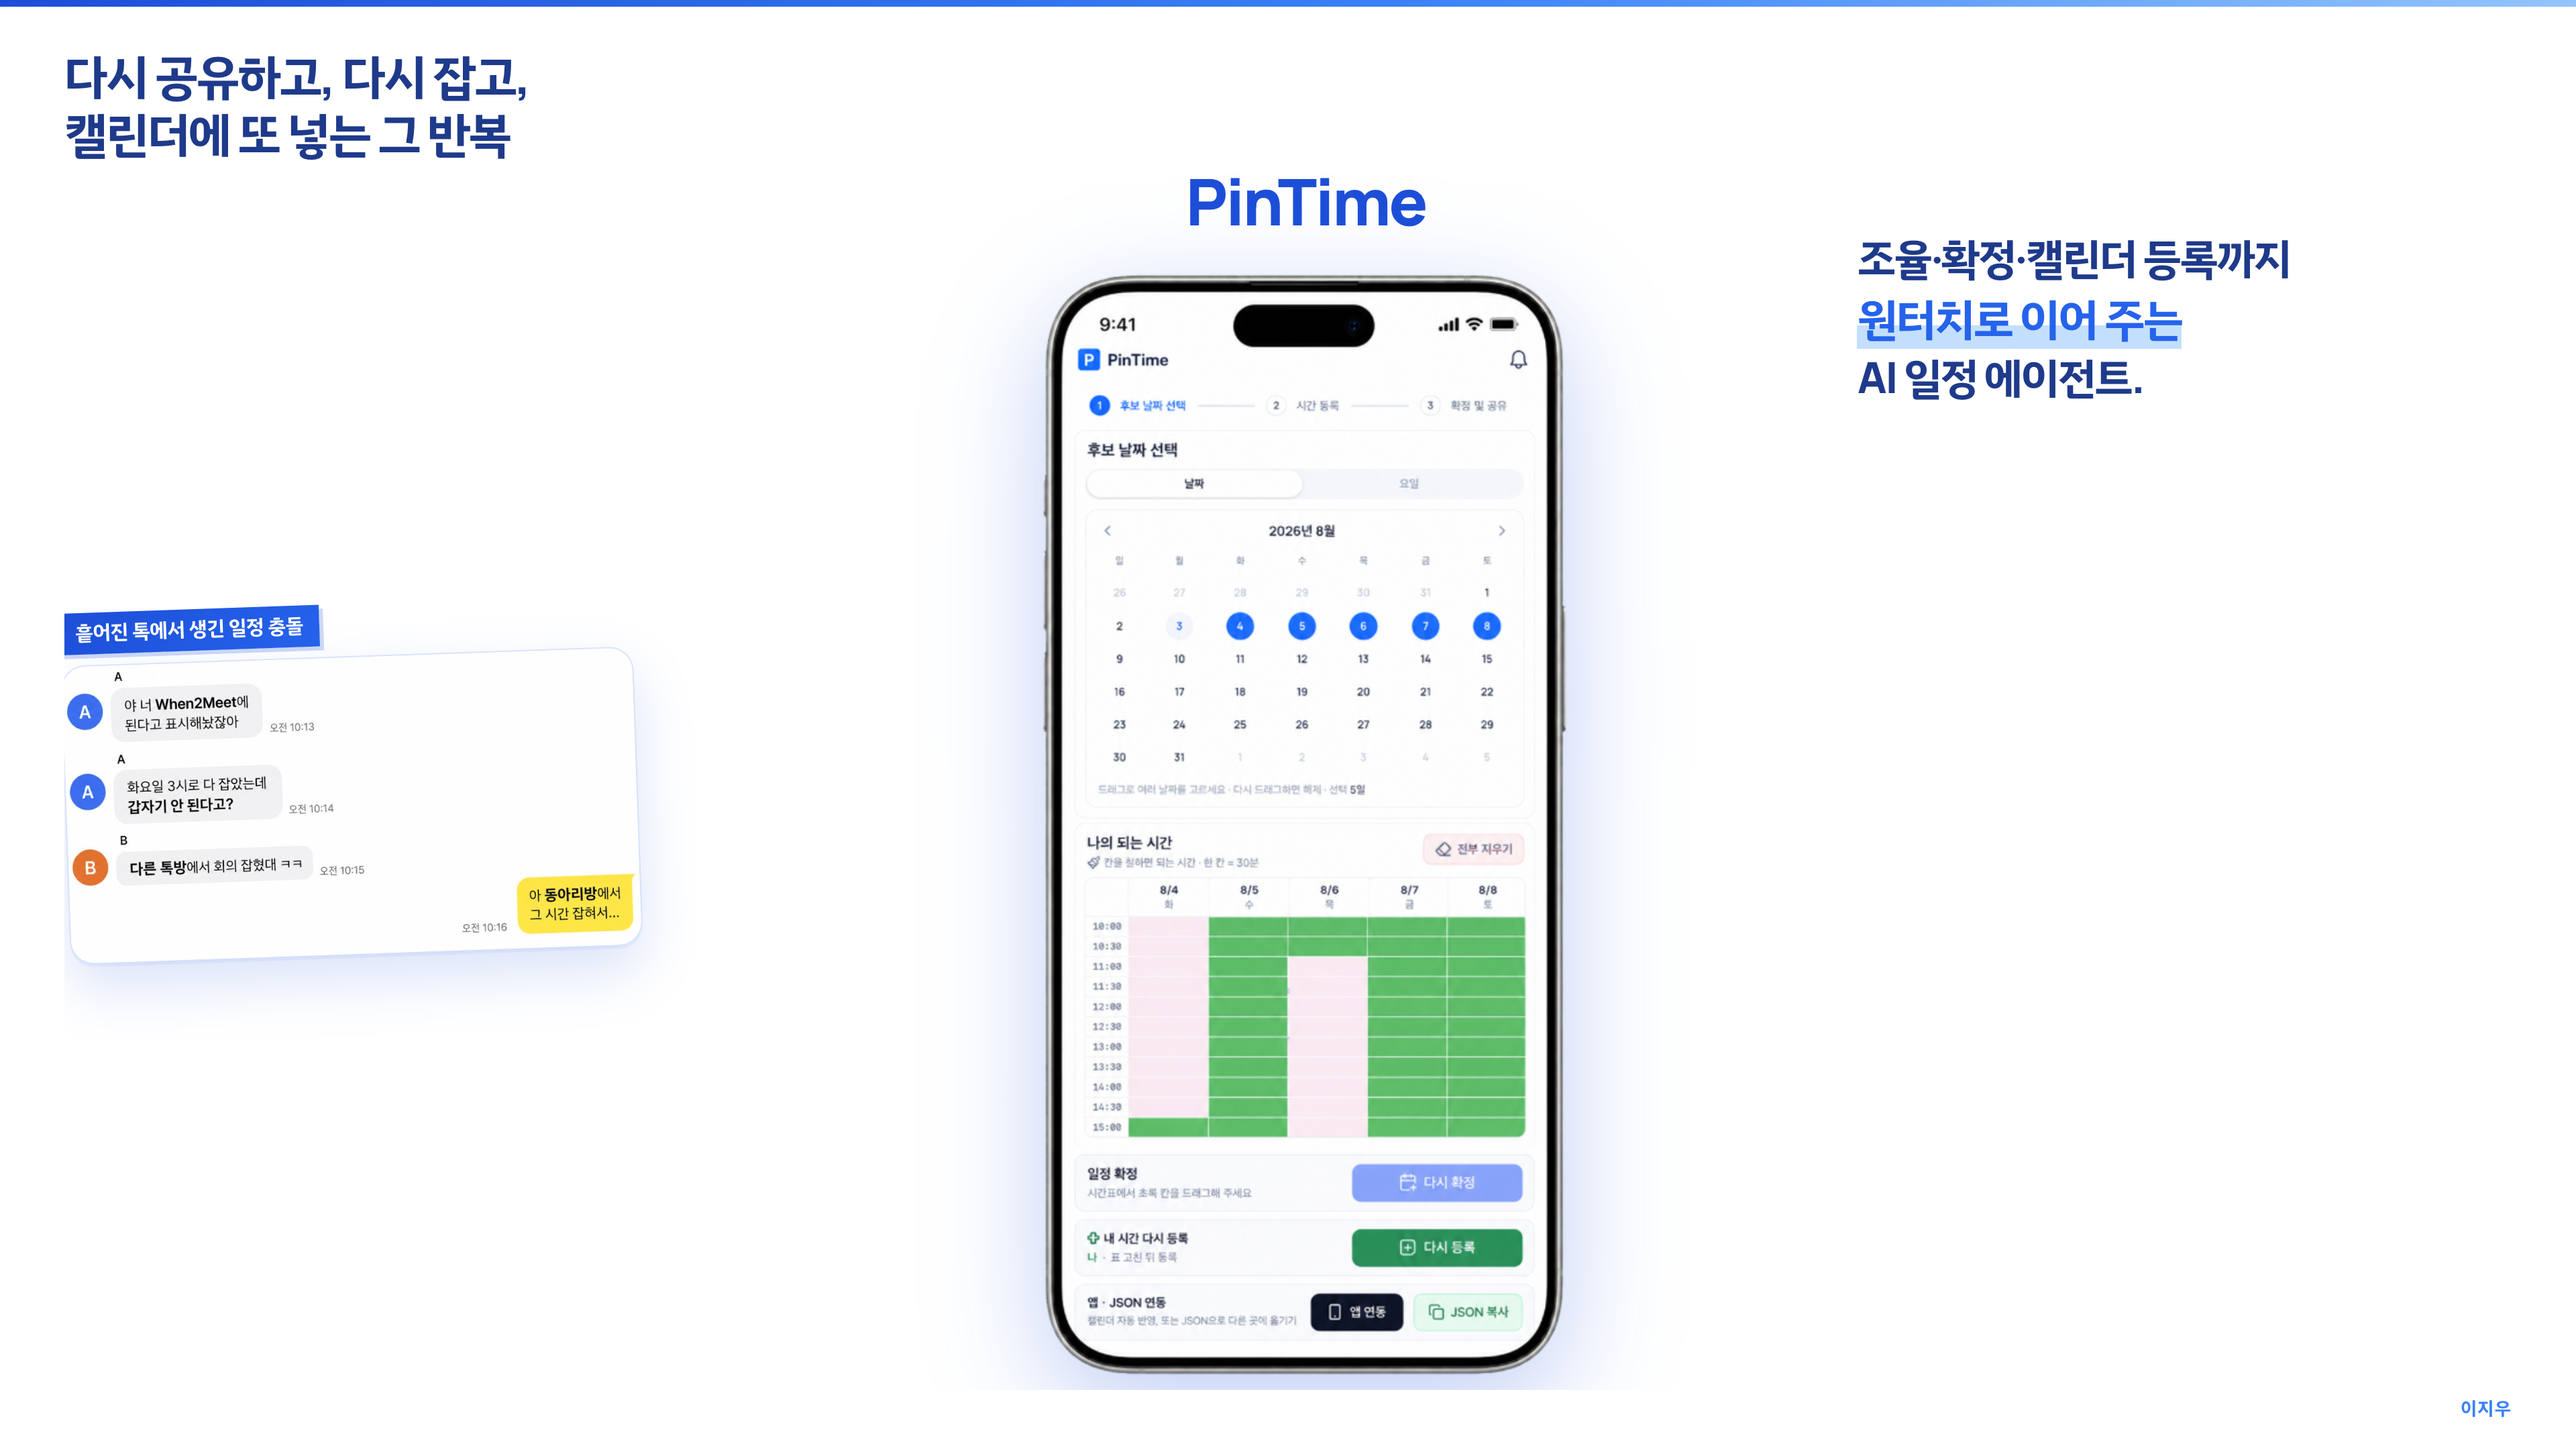
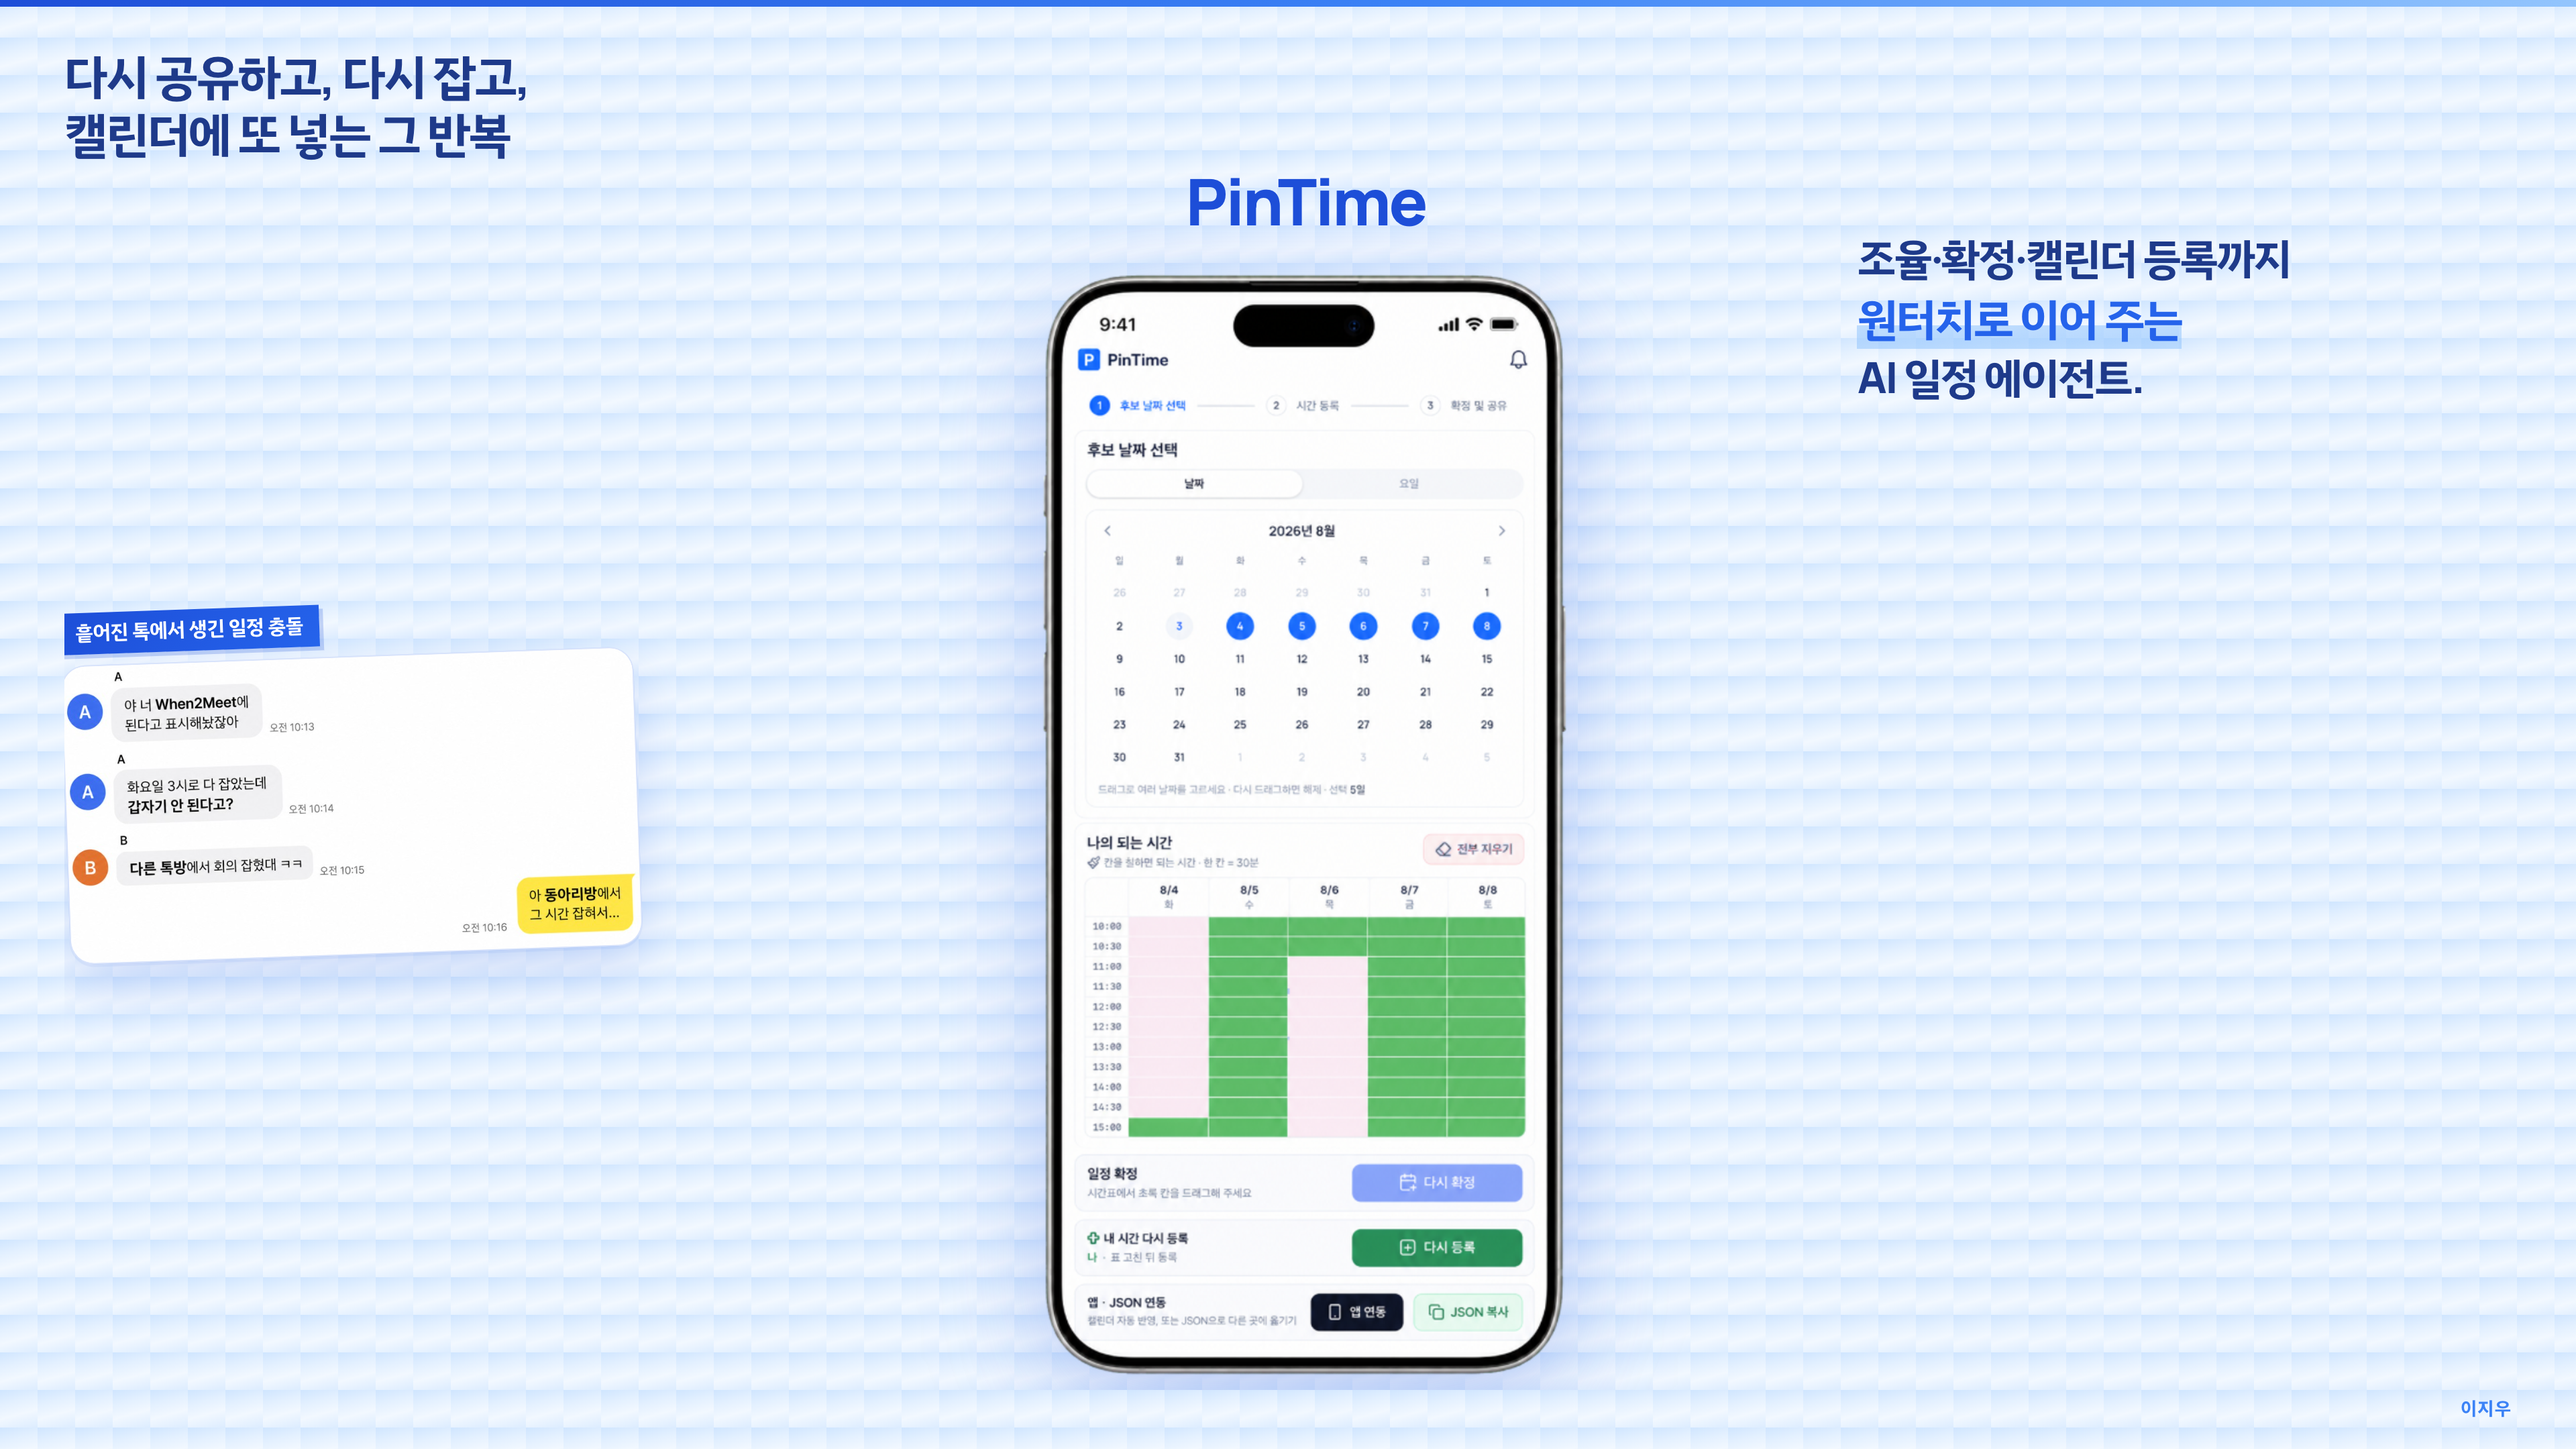
Restore sky-blue gradient on cover background.

diff --git a/public/pitch.html b/public/pitch.html
@@ -1153,8 +1153,14 @@
 
       /* ===== COVER (핀테크 블루 · 클린) ===== */
       .slide.cover {
-        background-color: #ffffff;
-        background-image: none;
+        background-color: #eaf4ff;
+        background-image: linear-gradient(
+          165deg,
+          #cfe5ff 0%,
+          #e3f0ff 32%,
+          #f2f8ff 62%,
+          #dcecff 100%
+        );
         color: var(--ink);
       }
 
